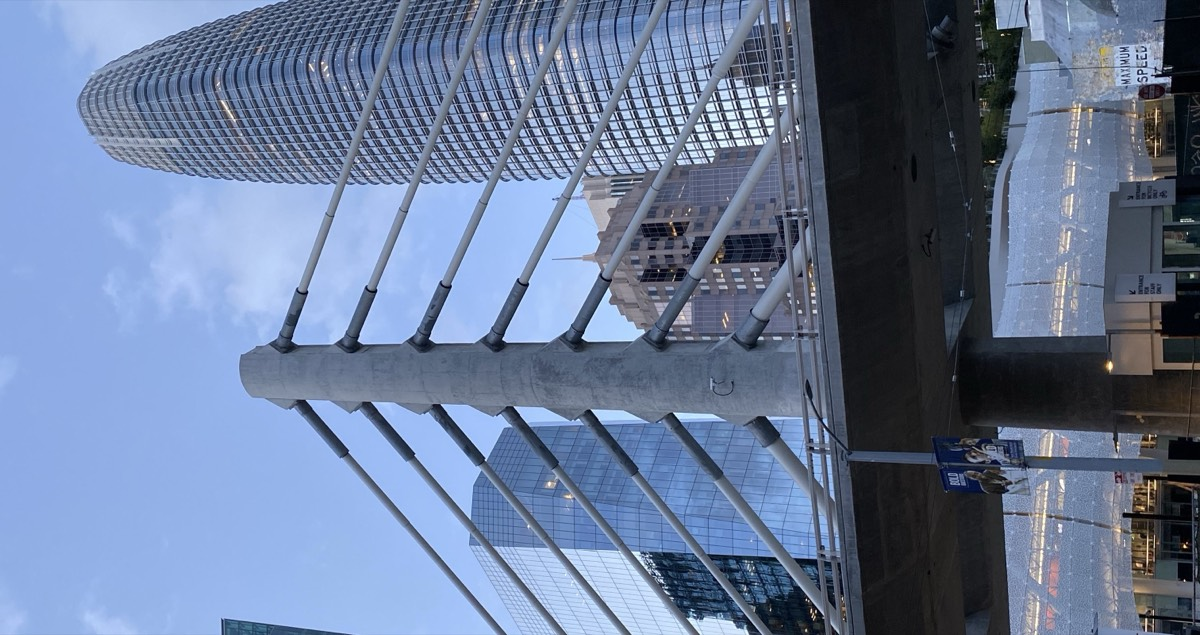
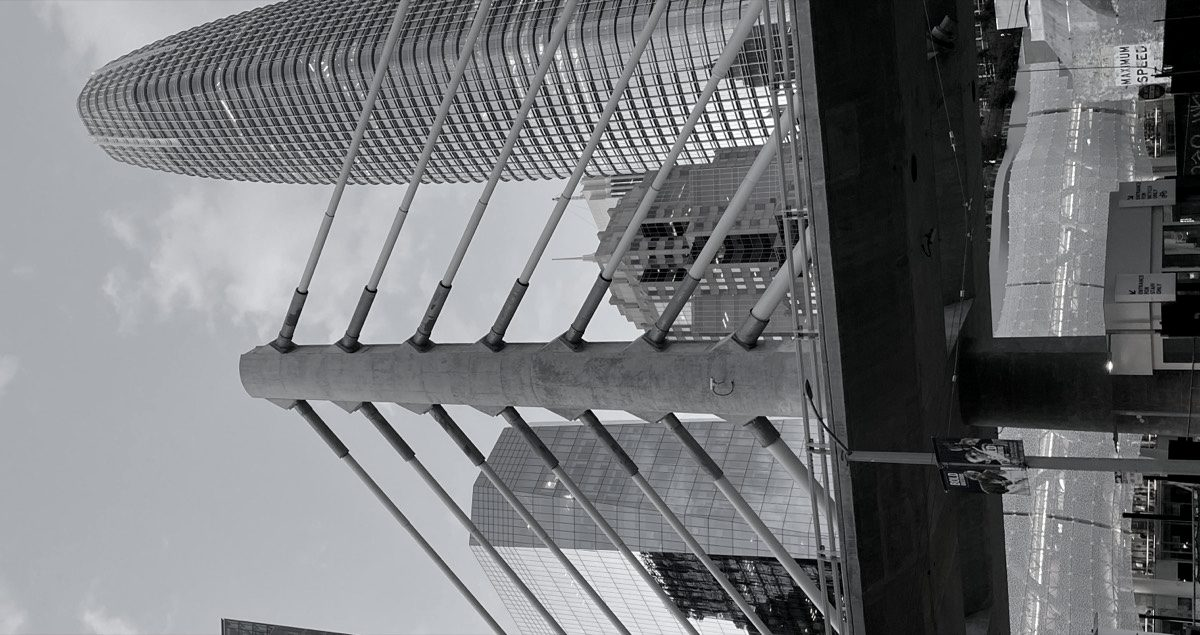
Desaturate hero photo, add engineer-at-heart copy

diff --git a/index.html b/index.html
@@ -4,7 +4,7 @@
   <meta charset="utf-8">
   <meta name="viewport" content="width=device-width, initial-scale=1">
   <title>Enea Gjoka — Salesforce Solution Architect</title>
-  <meta name="description" content="Salesforce Solution Architect in Düsseldorf. Enterprise platform architecture — Sales, Service, Field Service and B2B Commerce — delivered faster with Claude Code.">
+  <meta name="description" content="Salesforce Solution Architect in Düsseldorf — architect by title, engineer at heart. Enterprise platform architecture and B2B Commerce, delivered faster with Claude Code.">
   <link rel="canonical" href="https://eneagjoka.com/">
   <meta property="og:type" content="website">
   <meta property="og:url" content="https://eneagjoka.com/">
@@ -34,8 +34,8 @@
       <p class="eyebrow hero-in" style="--i:2">Salesforce Solution Architect · Düsseldorf</p>
       <span class="hero-rule hero-in" style="--i:3" aria-hidden="true"></span>
       <p class="hero-line hero-in" style="--i:4">
-        Architecting enterprise Salesforce platforms —<br class="br-wide">
-        and delivering them faster with <span class="grad">Claude&nbsp;Code</span>.
+        Architect by title, engineer at heart —<br class="br-wide">
+        building enterprise Salesforce platforms, delivered faster with <span class="grad">Claude&nbsp;Code</span>.
       </p>
     </div>
 
@@ -99,7 +99,7 @@
 
       <div class="duo">
         <div class="duo-copy reveal">
-          <p>Eight-plus years of Salesforce platform decisions, now paired with <strong>Claude Code</strong> — an AI agent working inside the codebase.</p>
+          <p>Eight-plus years of Salesforce platform decisions — and a lifelong love of engineering — now paired with <strong>Claude Code</strong>, an AI agent working inside the codebase.</p>
           <p>The agent drafts the trigger handlers, writes the tests and sweats the deployment — from Service Cloud logic to B2B Commerce checkouts. I own the architecture: the data model, the boundaries, the trade-offs. Together we ship in days what used to take sprints.</p>
         </div>
 
@@ -124,7 +124,7 @@
         <a class="link-pill reveal" href="https://trailblazercommunitygroups.com/salesforce-architect-group-dusseldorf-germany/">Architect Group Düsseldorf</a>
       </nav>
 
-      <p class="colophon reveal">© 2026 Enea Gjoka · Düsseldorf · Built with Claude Code · No cookies, no tracking</p>
+      <p class="colophon reveal">© 2026 Enea Gjoka · Düsseldorf · Engineered by hand, accelerated by Claude Code · No cookies, no tracking</p>
     </footer>
   </main>
 

diff --git a/css/style.css b/css/style.css
@@ -144,6 +144,7 @@ h2 {
   height: 100%;
   object-fit: cover;
   object-position: 62% 30%;
+  filter: saturate(0.08) contrast(1.06);
   opacity: 0;
   transition: opacity 0.9s ease;
 }